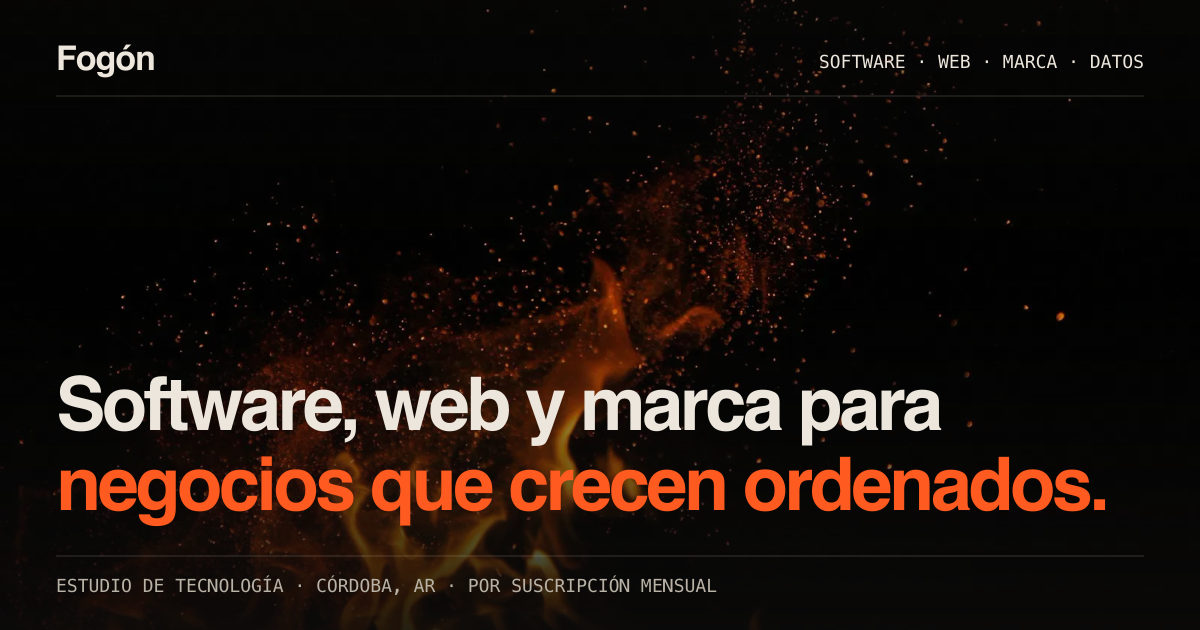
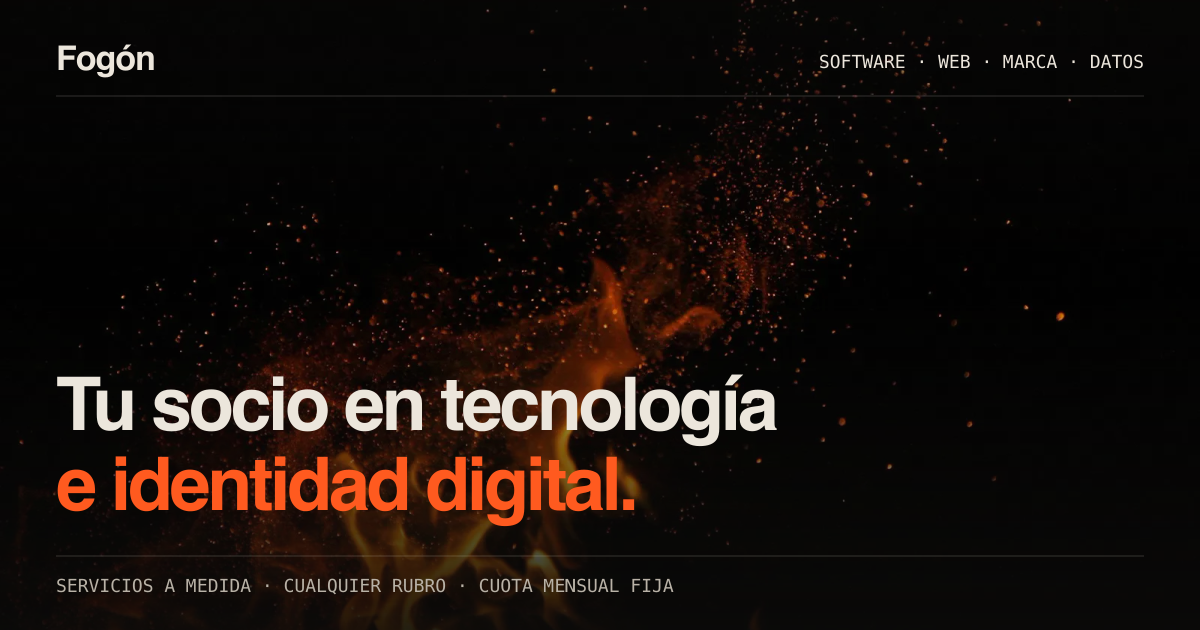
feat: Fogón como empresa de servicios a medida, no como producto
- Sin promesas que dependen de cada proyecto (sin instalar, app en el celular, autoadministrable)
- Sin frases de plataforma (módulos, adaptado a tu rubro, soluciones en uso)
- Córdoba sólo en la página; fuera de descripciones, llms.txt, imagen para compartir y promo.yaml
- promo.yaml: descripción, tono y avoid para que las publicaciones siempre aclaren que somos
  una empresa de servicios y no vendemos una solución enlatada
- Regla de voz en estrategia de redes

Changed region(s): [[0.0308, 0.6032, 0.925, 0.8444], [0.0308, 0.9048, 0.5858, 0.9651]]

diff --git a/src/content.ts b/src/content.ts
@@ -15,7 +15,7 @@ export const SERVICIOS: Servicio[] = [
     id: "presencia",
     titulo: "Presencia online",
     bajada: "Un sitio rápido que aparece en Google y en los asistentes de IA, y que convierte visitas en consultas.",
-    items: ["Sitio web o landing autoadministrable", "SEO local y perfil de Google", "Inscripciones, reservas o pedidos online", "Preparado para ChatGPT, Gemini y Claude (llms.txt y datos estructurados)"],
+    items: ["Sitio web o landing a medida", "SEO local y perfil de Google", "Inscripciones, reservas o pedidos online", "Preparado para ChatGPT, Gemini y Claude (llms.txt y datos estructurados)"],
   },
   {
     id: "procesos",
@@ -26,8 +26,8 @@ export const SERVICIOS: Servicio[] = [
   {
     id: "gestion",
     titulo: "Sistemas de gestión",
-    bajada: "Aplicaciones a medida de tu negocio, en el celular y la PC, que reemplazan el papel y el Excel.",
-    items: ["Agenda, clientes, stock, gastos y cobros", "Trazabilidad: quién hizo qué y cuándo", "Funciona sin instalar nada y como app en el celular", "Tus datos siempre exportables"],
+    bajada: "Sistemas diseñados para cómo trabaja tu negocio, que reemplazan el papel y el Excel.",
+    items: ["Agenda, clientes, stock, gastos y cobros", "Trazabilidad: quién hizo qué y cuándo", "Pensado para dónde y cómo trabaja tu equipo", "Tus datos siempre exportables"],
   },
   {
     id: "datos",
@@ -50,7 +50,7 @@ export const BENEFICIOS = [
   { titulo: "Ganás tiempo", texto: "Lo repetitivo se hace solo: recordatorios, descuentos de stock, resúmenes y avisos." },
   { titulo: "Delegás sin perder el control", texto: "Cada usuario con sus permisos y un registro de quién cargó o cambió cada cosa." },
   { titulo: "Atendés mejor", texto: "Turnos, inscripciones y pedidos online, con confirmación por WhatsApp." },
-  { titulo: "Crecés sin desordenarte", texto: "El sistema crece con el negocio: sumás módulos cuando los necesitás." },
+  { titulo: "Crecés sin desordenarte", texto: "Lo que hacemos crece con el negocio: sumamos lo que va necesitando." },
 ];
 
 /** Cómo trabajamos: cada paso dice cuándo se paga. Detalle interno en docs/proceso-comercial.md. */
@@ -114,7 +114,7 @@ export const PLANES: Plan[] = [
     destacado: true,
     incluye: [
       "Todo lo de Presencia",
-      "Sistema de gestión adaptado a tu rubro",
+      "Sistema de gestión a medida de tu operación",
       "Bot de WhatsApp: consultas, turnos y recordatorios",
       "Usuarios, permisos y registro de actividad",
       "Resumen mensual con tus números",
@@ -153,7 +153,7 @@ export const SOCIO_BENEFICIOS = [
   { titulo: "Un costo fijo y previsible", texto: `Una cuota mensual desde ${PRECIO_DESDE}, con desarrollo, soporte y mejoras incluidos. Sin sorpresas ni presupuestos sueltos.` },
   { titulo: "Siempre funcionando", texto: "Soporte, backups y mejoras todo el año, y herramientas al día en IA, buscadores y seguridad." },
   { titulo: "El conocimiento queda en tu negocio", texto: "Todo documentado, procesos claros para tu equipo y tus datos siempre exportables." },
-  { titulo: "Crece con vos", texto: "Empezás por lo que más impacto tiene y sumás módulos cuando el negocio los pide." },
+  { titulo: "Crece con vos", texto: "Empezamos por lo que más impacto tiene y sumamos lo que el negocio va pidiendo." },
 ];
 
 export const CONDICIONES = [
@@ -162,6 +162,7 @@ export const CONDICIONES = [
   "Para arrancar se abonan 2 cuotas más: el mes 2 y el último mes de la permanencia.",
   "Permanencia mínima de 6 meses en Presencia y 12 en Gestión e Integral; después, mes a mes.",
   "Si das de baja antes, se abona el desarrollo pendiente según la tabla del contrato.",
+  "Cada proyecto se diseña para tu negocio: lo que incluye cada plan se ajusta a lo que necesitás.",
   "Precios de referencia; el valor final depende del alcance y se fija por escrito.",
   "Los mensajes de WhatsApp Business que cobra Meta se pagan aparte, al costo.",
   "Si te vas, te llevás tus datos completos en formatos abiertos.",
@@ -197,7 +198,7 @@ export const RECORRIDOS: Recorrido[] = [
     para: "Tu imagen está resuelta; lo que te frena es la operación.",
     plan: "Gestión",
     cobro: "1 cuota de Gestión: relevamos tu operación y definimos el sistema.",
-    hacemos: ["Relevamiento de cómo trabajás hoy (turnos, pedidos, stock, cobros)", "Elección del módulo base para tu rubro", "Usuarios, permisos y qué datos migrar", "Pantallas clave y cronograma de la primera versión"],
+    hacemos: ["Relevamiento de cómo trabajás hoy (turnos, pedidos, stock, cobros)", "Qué resolver primero y cómo, según tu operación", "Usuarios, permisos y qué datos migrar", "Pantallas clave y cronograma de la primera versión"],
     necesitamos: ["Tus archivos de marca (logo y colores)", "Las planillas o cuadernos que usás hoy", "Quiénes van a usar el sistema y qué hace cada uno", "Los números que querés ver cada mes"],
     pasos: ["Charla inicial", "Pago de la cuota de relevamiento", "Presentación de la propuesta", "Pago de 2 cuotas y arranque", "Primera versión en 3 a 8 semanas"],
   },
@@ -254,7 +255,7 @@ export const FAQ = [
   },
   {
     p: "¿Necesito saber de tecnología?",
-    r: "No. Diseñamos cada pantalla para que la use cualquier persona del equipo desde el celular, y te acompañamos en el arranque con una capacitación corta.",
+    r: "No. Diseñamos cada pantalla para que la use cualquier persona del equipo, en el lugar y el dispositivo donde trabaja, y te acompañamos en el arranque con una capacitación corta.",
   },
   {
     p: "¿De quién son los datos?",

diff --git a/src/pages/llms.txt.ts b/src/pages/llms.txt.ts
@@ -8,11 +8,11 @@ export const GET: APIRoute = () => {
   const md = [
     `# ${SITE.nombre}`,
     "",
-    `> ${SITE.bajada}. ${SITE.slogan} Marca, presencia online, procesos, sistemas de gestión, tableros de datos e IA para emprendedores y pymes de Argentina, por suscripción mensual y sin pago inicial grande.`,
+    `> ${SITE.bajada}. ${SITE.slogan} Marca, presencia online, procesos, sistemas de gestión, tableros de datos e IA para emprendedores y pymes de Argentina, por suscripción mensual y sin pago inicial grande. Es una empresa de servicios: no vende un producto ni una plataforma; cada solución se diseña a medida de cada negocio.`,
     "",
     `- Sitio: ${SITE.url}`,
     `- Contacto: ${SITE.email}`,
-    `- Base: ${SITE.ciudad}, ${SITE.provincia}, Argentina. ${SITE.zona}.`,
+    `- Atención: ${SITE.zona}.`,
     "",
     "## Servicios",
     "",

diff --git a/src/site.ts b/src/site.ts
@@ -11,7 +11,7 @@ export const SITE = {
   ciudad: "Córdoba",
   provincia: "Córdoba",
   pais: "AR",
-  zona: "Argentina (trabajo 100 % remoto, reuniones presenciales en Córdoba)",
+  zona: "Todo el país, trabajo 100 % remoto",
   /** WhatsApp en formato internacional sin "+" (para wa.me). Vacío oculta los botones de WhatsApp. */
   whatsapp: "5493517642289",
   whatsappTexto: "351 764-2289",

diff --git a/docs/estrategia-redes.md b/docs/estrategia-redes.md
@@ -4,6 +4,17 @@ Pensada para producir con **Promo Studio** a partir de `promo.yaml` (este repo) 
 proyecto. El objetivo de las redes no es "tener seguidores": es **llevar dueños de negocio al autodiagnóstico y a la
 charla inicial**.
 
+## Regla de voz: empresa de servicios, no producto
+
+Fogón es una empresa de servicios. Nunca se presenta como una plataforma, app o producto, ni como algo enlatado:
+- Sí: "te ayudamos a ordenar los turnos", "diseñamos el sistema para cómo trabaja tu equipo", "nos sumamos a tu equipo".
+- No: "así se ordena con Fogón", "Fogón te permite…", "probá Fogón", "descargá", "un módulo para tu rubro".
+- Los casos son soluciones hechas para ese negocio, no productos listos para contratar.
+- No prometer formatos fijos (app, sin instalar, autoadministrable): dependen de cada proyecto.
+- No presentarse como empresa de Córdoba: trabajamos con todo el país (la ubicación sólo figura en el sitio).
+
+La regla está también en `promo.yaml` (`tone` y `avoid`), así Promo Studio la respeta al generar.
+
 ## 1. Principios
 
 - **Mostrar, no prometer.** Cada post se apoya en algo real: una pantalla de un sistema en uso, un número que el

diff --git a/docs/proceso-comercial.md b/docs/proceso-comercial.md
@@ -107,8 +107,7 @@ Revisar antes de cada cierre. Si alguna no se cumple, se saca del sitio (`src/co
 - [ ] **Una mejora nueva por mes** (Gestión): tener horas reservadas.
 - [ ] **Soporte por WhatsApp**: definir horario y tiempo de respuesta.
 - [ ] **Tiempos:** sitio en 1 a 3 semanas y sistema en 3 a 8 semanas.
-- [ ] **"Sitio autoadministrable"**: un sitio HTML estático (como Alto las Flores) no lo es. Ofrecer "cambios de
-      contenido todos los meses" en su lugar o sumar un editor.
+- [x] **"Sitio autoadministrable"**: se sacó del sitio; ahora dice "Sitio web o landing a medida" (si es editable o no depende de cada proyecto).
 - [ ] **Preparado para asistentes de IA** (`llms.txt` y datos estructurados) en cada sitio entregado.
 - [ ] **Revisión trimestral de objetivos** y **reunión mensual** (Integral): agendarlas desde el arranque.
 - [ ] **Precios:** que la cuota de 12 meses cubra las horas de desarrollo. Si no, subir la cuota.

diff --git a/docs/checklists/b-sistema.md b/docs/checklists/b-sistema.md
@@ -16,7 +16,7 @@ WhatsApp, papel o planillas. Trabajamos con cualquier rubro.
 ## Qué hacemos
 
 - [ ] Relevamiento de cómo trabajás hoy, paso a paso
-- [ ] Elección del módulo base para tu rubro (agenda, clientes, stock, gastos, cobros)
+- [ ] Qué resolver primero y cómo, según tu operación (agenda, clientes, stock, gastos, cobros)
 - [ ] Definición de usuarios, permisos y qué datos migrar
 - [ ] Pantallas clave y cronograma de la primera versión
 - [ ] Presentación de la propuesta en videollamada
